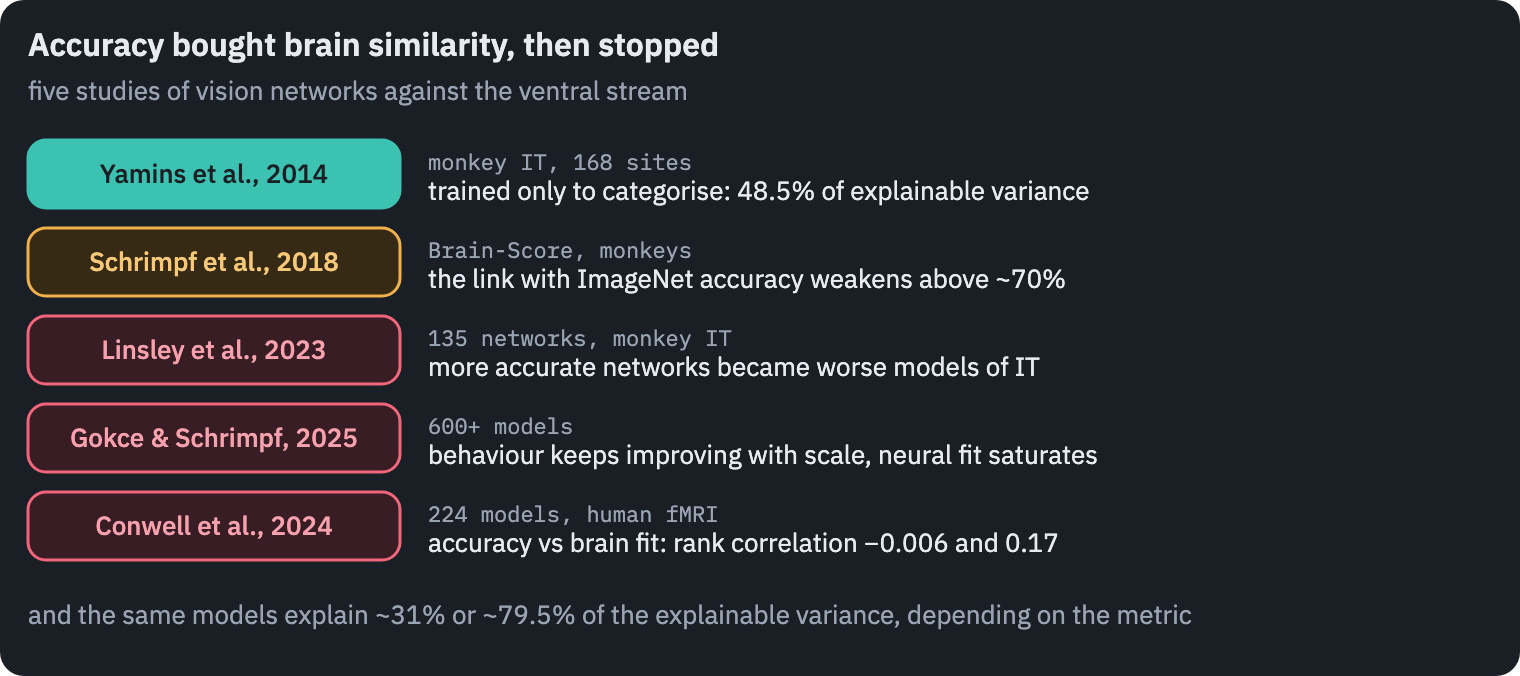
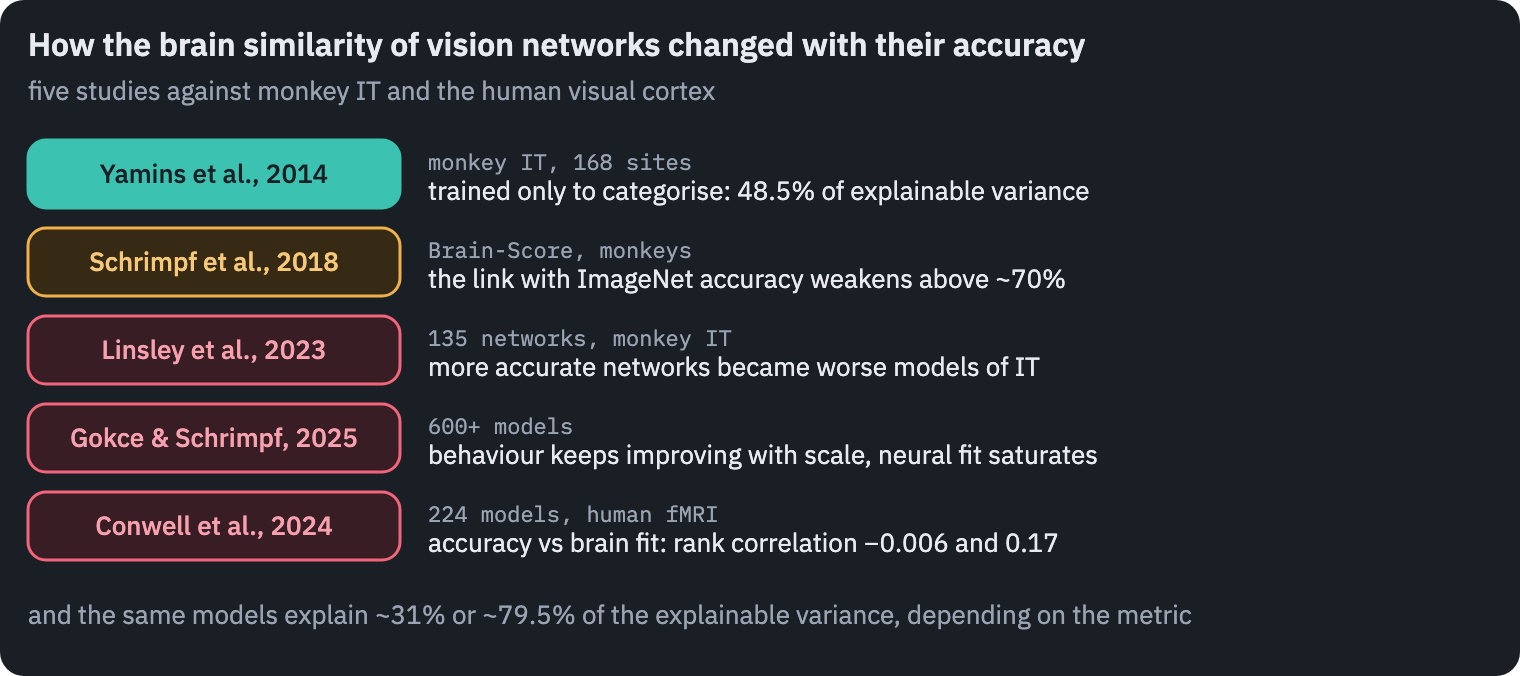
Brain-AI post: plain, searchable title, headings, figure titles and cover; a search description

Changed region(s): [[0.0, 0.0311, 0.7112, 0.0932], [0.0928, 0.1243, 0.4638, 0.1553]]

diff --git a/_posts/2026-11-08-brain-and-ai-models.md b/_posts/2026-11-08-brain-and-ai-models.md
@@ -1,8 +1,9 @@
 ---
 layout: post
-title: "The brain and AI models: where they converge and where they don't"
+title: "How similar is the human brain to AI models?"
 date: 2026-11-08 00:00:00
-description: "Ten years of comparing brains with neural networks: language models and the language network, vision models and the ventral stream, grid cells, dopamine and reinforcement learning, memory, robots, energy and data. What the measurements show, what they don't, and what is still missing"
+description: "A decade of neuroscience has compared brains with neural networks. Language models predict the brain's language network, vision models the visual cortex and reinforcement learning the dopamine signal, while memory, bodies, energy and lifelong learning are where the two still differ most"
+seo_description: "How the human brain compares with AI models in studies of language, vision, memory, grid cells and dopamine, and which of them is more efficient."
 tags: [neuroscience, ai, llm, brain, cognitive-science]
 categories: [cognitive-science, machine-learning]
 thumbnail: /assets/posts/brain-and-ai-models/cover.png
@@ -79,7 +80,7 @@ A 2026 re-analysis found that several of the field's best-known results depend o
 
 </details>
 
-## Language models predict the language network, and mostly its sense of meaning
+## Language models and the brain's language network
 
 The human brain has a set of regions that respond when we read or hear language and barely respond to anything else: not to arithmetic, logic, music or code.
 
@@ -114,7 +115,7 @@ Goldstein's team had warned about this themselves: "These shared computational p
 
 <p class="takeaway" markdown="1">Language models are the best encoding models of the language network we have, and what they mostly capture is word meaning. Whether the brain computes language by predicting the next word is still open.</p>
 
-### Fluency is not thought
+### Language and thought rely on different networks
 
 The language network has a second property that matters more than any correlation. People who lose it, after a stroke that leaves them with global aphasia, unable to understand or produce sentences, can still do arithmetic, solve logic problems and reason about what other people believe<sup class="cite">[<a href="#ref-11" id="cite-14" data-ref="11" aria-label="Reference 11: Fedorenko &amp; Varley, 2016. doi.org.">11</a>]</sup>.
 
@@ -128,7 +129,7 @@ In a family of models trained from scratch, similarity to the language network p
 
 So a large language model is two things at once. Part of it is a good model of the human language network. The rest, the arithmetic, the facts, the code, has to live somewhere else in the brain, and the language network doesn't predict which.
 
-### Reading language from the brain works, with the person's help
+### Decoding language from brain scans
 
 The same models made it possible to decode language from brain activity. Tang, LeBel, Jain and Huth decoded the gist of stories that people heard or imagined, and of silent films they watched, from fMRI alone, using a GPT model to propose candidate word sequences and an encoding model to pick the one that best explained the scan<sup class="cite">[<a href="#ref-15" id="cite-18" data-ref="15" aria-label="Reference 15: Tang et al., 2023. doi.org.">15</a>]</sup>.
 
@@ -138,7 +139,7 @@ The most practical use is in medicine. Electrodes implanted in the speech-motor 
 
 A language model corrects the raw output into likely sentences. The signal is the attempt to move the mouth, not the language network and not thought.
 
-## Vision models matched the visual cortex, then stopped getting closer
+## Vision models and the visual cortex
 
 The visual system was where this whole line of work began, and where it is most mature.
 
@@ -170,7 +171,7 @@ What mattered most was what images a model was trained on. The authors' conclusi
 
 <p class="callout callout-key" markdown="1">Task-trained networks predicted the visual cortex better than any hand-built model. Since then, accuracy has stopped buying similarity, architecture barely matters, and the measuring stick is looser than the scores suggest.</p>
 
-### Where vision differs
+### How human and machine vision differ
 
 The differences show up in behaviour. On images with the shape of one object and the texture of another, a cat's outline filled with elephant skin, people name the shape 95.9% of the time; ImageNet-trained networks mostly name the texture<sup class="cite">[<a href="#ref-22" id="cite-25" data-ref="22" aria-label="Reference 22: Geirhos et al., 2019. arxiv.org.">22</a>]</sup>.
 
@@ -182,7 +183,7 @@ But when the responses of monkey IT neurons were attacked the same way, they tur
 
 People resist because they get to look again; a 63-millisecond glimpse followed by a mask can be nudged by the same perturbations that fool networks<sup class="cite">[<a href="#ref-26" id="cite-29" data-ref="26" aria-label="Reference 26: Elsayed et al., 2018. arxiv.org.">26</a>]</sup>.
 
-### Pictures from the brain are mostly the generator's
+### Reconstructing images from brain activity
 
 If you have seen images "reconstructed from brain scans", they came from the Natural Scenes Dataset: eight people, each lying in a 7-tesla scanner for 30 to 40 sessions over a year and looking at 9,000 to 10,000 photographs<sup class="cite">[<a href="#ref-27" id="cite-30" data-ref="27" aria-label="Reference 27: Allen et al., 2022. doi.org.">27</a>]</sup>.
 
@@ -192,7 +193,7 @@ Retrieval is real. Reconstruction is mostly the generator's. On a dataset built 
 
 The authors call what these methods do "a combination of 'classification' and 'hallucination'"<sup class="cite">[<a href="#ref-29" id="cite-32" data-ref="29" aria-label="Reference 29: Shirakawa et al., 2025. arxiv.org.">29</a>]</sup>. The brain supplies a rough steer, and a model trained on billions of images supplies the picture.
 
-## Space and memory: grid cells, the hippocampus and the context window
+## Place cells, grid cells and the hippocampus
 
 The hippocampus and the entorhinal cortex next to it hold the brain's best-understood map. *Place cells* fire when an animal is in one particular spot; *grid cells* fire at every vertex of a triangular lattice that tiles the whole environment. John O'Keefe and May-Britt and Edvard Moser shared the 2014 Nobel Prize for finding them<sup class="cite">[<a href="#ref-30" id="cite-33" data-ref="30" aria-label="Reference 30: Hafting et al., 2005. doi.org.">30</a>]</sup>.
 
@@ -211,7 +212,7 @@ A model can also look as if it has a map without having one. Transformers traine
 
 Replace 1% of their turns with random detours, and only 69% of their routes stayed valid; replace 10%, and 8% did<sup class="cite">[<a href="#ref-33" id="cite-36" data-ref="33" aria-label="Reference 33: Vafa et al., 2024. arxiv.org.">33</a>]</sup>.
 
-### Three memories and no sleep
+### Memory systems and the context window
 
 The brain has several memory systems, and a language model has several stores, and it is tempting to pair them. The pairing is a useful map if you remember that it is a map.
 
@@ -234,7 +235,7 @@ Suppressing the ripples that carry this replay impairs memory, and prolonging th
 
 Training it further on new facts erases old ones, and standard deep networks trained continually slowly lose the ability to learn at all<sup class="cite">[<a href="#ref-39" id="cite-42" data-ref="39" aria-label="Reference 39: Dohare et al., 2024. doi.org.">39</a>]</sup>. Brains keep learning for a lifetime.
 
-## Reward: the place where AI theory predicted biology
+## Dopamine and reinforcement learning
 
 The cleanest case of a match runs in an unexpected direction. In the 1980s, reinforcement-learning researchers developed *temporal-difference learning*, in which an agent learns to predict future reward from the error between what it predicted and what it got.
 
@@ -259,7 +260,7 @@ The analogy that people draw most often, between dopamine and the reinforcement 
 
 But in RLHF that number comes from a second model trained to guess human preferences, and optimising against it too hard makes answers worse<sup class="cite">[<a href="#ref-45" id="cite-48" data-ref="45" aria-label="Reference 45: Gao et al., 2023. arxiv.org.">45</a>]</sup> and more sycophantic<sup class="cite">[<a href="#ref-46" id="cite-49" data-ref="46" aria-label="Reference 46: Sharma et al., 2023. arxiv.org.">46</a>]</sup>. It also damaged GPT-4's sense of its own reliability: before this training its confidence matched its accuracy almost perfectly, after it, ten times worse<sup class="cite">[<a href="#ref-47" id="cite-50" data-ref="47" aria-label="Reference 47: OpenAI, 2023. arxiv.org.">47</a>]</sup>.
 
-## Bodies and worlds: Moravec's paradox in numbers
+## Intuitive physics, robots and Moravec's paradox
 
 In 1988 the roboticist Hans Moravec noticed that what is hard for people, chess, logic, exams, was easy for computers, and what a one-year-old does without thinking, seeing and moving, was the hardest of all. Nearly forty years of progress have kept the paradox and given it numbers.
 
@@ -278,7 +279,7 @@ V-JEPA 2, used as a world model to plan a robot arm's movements, grasped a cup 6
 
 The brain-model link holds in motor control too, for a body simulated in detail. A network trained to drive a realistic virtual rat, imitating the movements of real rats, produced activity that predicted the neurons of real rats' motor cortex and striatum better than any measured feature of their movements did<sup class="cite">[<a href="#ref-51" id="cite-54" data-ref="51" aria-label="Reference 51: Aldarondo et al., 2024. doi.org.">51</a>]</sup>.
 
-## The map: which parts of the brain have a counterpart
+## Which brain systems have an AI counterpart
 
 Put the evidence together and a map appears. Colour each brain system by how close the best AI counterpart is, judged by the studies above: strong where models predict the system's activity or reproduce its signature, partial where they do some of its job without its properties, and absent where there is nothing to compare.
 
@@ -294,7 +295,7 @@ The strongest matches are the sensory and language systems, and the dopamine tea
 
 The weakest are the systems that run the body, keep track of the self and keep learning over a lifetime.
 
-## Who is more efficient?
+## Is the brain more efficient than AI?
 
 This is the question where the most nonsense is written, so the numbers here come with their units and their uncertainty.
 
@@ -336,7 +337,7 @@ One synapse stores about 4.7 bits<sup class="cite">[<a href="#ref-61" id="cite-6
 
 <p class="takeaway" markdown="1">Per answer, a chatbot costs about a minute of brain time. Per lesson learned, the brain is cheaper by orders of magnitude in data, and probably in energy too.</p>
 
-## What is missing
+## What AI models still lack
 
 A list of what the brain has and AI models don't would be long. Five items on it come up again and again in the evidence.
 
@@ -356,7 +357,7 @@ Whether there is something it is like to be a model, the question of consciousne
 
 The most careful attempt so far, which checked current systems against the signatures that the leading scientific theories of consciousness predict, concluded that no current AI system is conscious and that there is no obvious technical barrier to building one that would meet those signatures<sup class="cite">[<a href="#ref-65" id="cite-70" data-ref="65" aria-label="Reference 65: Butlin et al., 2023. arxiv.org.">65</a>]</sup>.
 
-## What follows
+## What the comparison shows
 
 Five conclusions seem safe.
 
